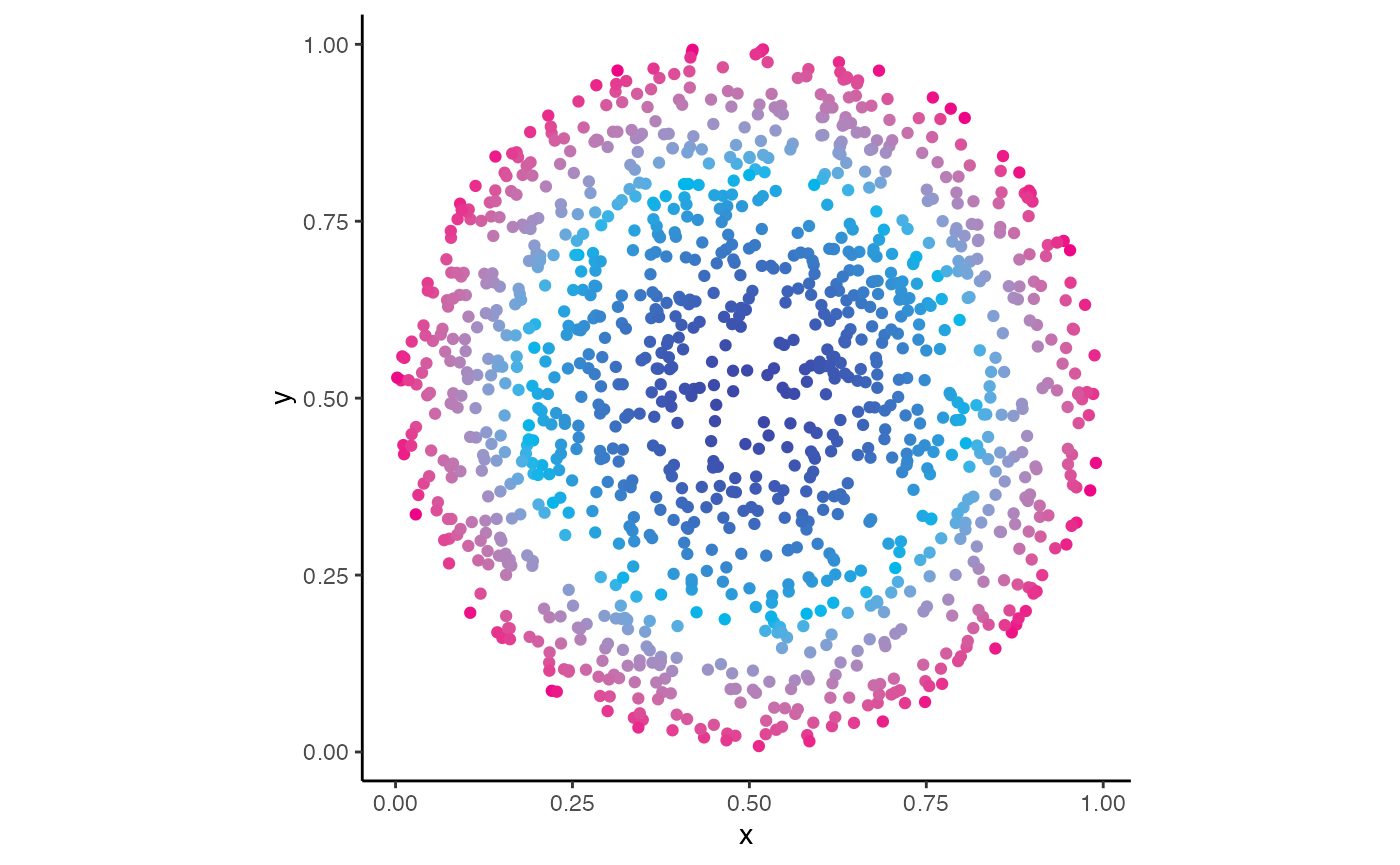
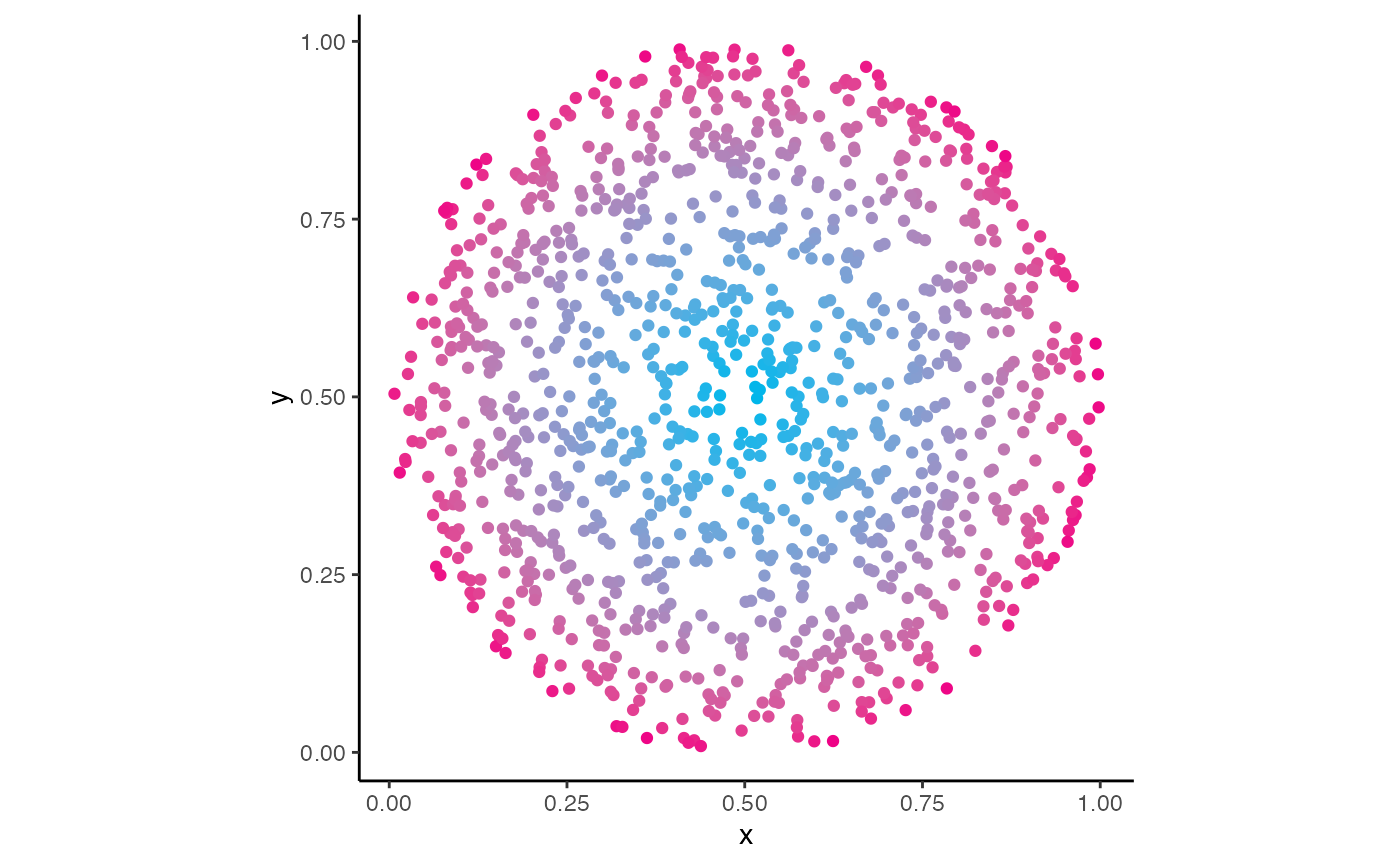
Rebuilding website

diff --git a/docs/articles/HGUTheme.html b/docs/articles/HGUTheme.html
@@ -183,9 +183,8 @@ unit logo colour themes.</p>
 your plot. These functions end in either a <em>c</em> or a <em>d</em>
 indicating whether you are using a continuous or a discrete scale.</p>
 <p>For continuous scales, v0.1.0 of <code>HGUTheme</code> will only
-automatically interpolate between the first and last colour of the logo,
-as shown here with this CRUK logo colour theme missing the light
-blue.</p>
+automatically interpolate between the colours of the logo, as shown here
+with this CRUK logo colour theme.</p>
 <div class="sourceCode" id="cb9"><pre class="downlit sourceCode r">
 <code class="sourceCode R"><span><span class="fu">tibble</span><span class="op">(</span></span>
 <span>  x <span class="op">=</span> <span class="fu"><a href="https://rdrr.io/r/stats/Uniform.html" class="external-link">runif</a></span><span class="op">(</span><span class="fl">1500</span><span class="op">)</span>,</span>
@@ -203,32 +202,12 @@ blue.</p>
 <span>  <span class="fu"><a href="https://ggplot2.tidyverse.org/reference/guides.html" class="external-link">guides</a></span><span class="op">(</span>colour <span class="op">=</span> <span class="st">"none"</span><span class="op">)</span> <span class="op">+</span> <span class="fu"><a href="https://ggplot2.tidyverse.org/reference/coord_fixed.html" class="external-link">coord_equal</a></span><span class="op">(</span><span class="op">)</span> <span class="op">+</span></span>
 <span>  <span class="fu"><a href="../reference/scale_colour_cruk_c.html">scale_colour_cruk_c</a></span><span class="op">(</span><span class="op">)</span></span></code></pre></div>
 <p><img src="HGUTheme_files/figure-html/unnamed-chunk-9-1.png" width="700"></p>
-<p>However, adding a <code>midpoint</code> argument will trigger the
-full theme, this is a bug that will be ironed out in a future
-release.</p>
-<div class="sourceCode" id="cb10"><pre class="downlit sourceCode r">
-<code class="sourceCode R"><span><span class="fu">tibble</span><span class="op">(</span></span>
-<span>  x <span class="op">=</span> <span class="fu"><a href="https://rdrr.io/r/stats/Uniform.html" class="external-link">runif</a></span><span class="op">(</span><span class="fl">1500</span><span class="op">)</span>,</span>
-<span>  y <span class="op">=</span> <span class="fu"><a href="https://rdrr.io/r/stats/Uniform.html" class="external-link">runif</a></span><span class="op">(</span><span class="fl">1500</span><span class="op">)</span></span>
-<span><span class="op">)</span> <span class="op">%&gt;%</span></span>
-<span>  <span class="fu"><a href="https://rdrr.io/r/stats/filter.html" class="external-link">filter</a></span><span class="op">(</span></span>
-<span>    <span class="op">(</span><span class="va">x</span> <span class="op">-</span> <span class="fl">0.5</span><span class="op">)</span><span class="op">^</span><span class="fl">2</span> <span class="op">+</span> <span class="op">(</span><span class="va">y</span> <span class="op">-</span> <span class="fl">0.5</span><span class="op">)</span><span class="op">^</span><span class="fl">2</span> <span class="op">&lt;</span> <span class="fl">0.25</span></span>
-<span>  <span class="op">)</span> <span class="op">%&gt;%</span></span>
-<span>  <span class="fu">mutate</span><span class="op">(</span></span>
-<span>    col <span class="op">=</span> <span class="op">(</span><span class="va">x</span> <span class="op">-</span> <span class="fl">0.5</span><span class="op">)</span><span class="op">^</span><span class="fl">2</span> <span class="op">+</span> <span class="op">(</span><span class="va">y</span> <span class="op">-</span> <span class="fl">0.5</span><span class="op">)</span><span class="op">^</span><span class="fl">2</span></span>
-<span>  <span class="op">)</span> <span class="op">%&gt;%</span></span>
-<span>  <span class="fu"><a href="https://ggplot2.tidyverse.org/reference/ggplot.html" class="external-link">ggplot</a></span><span class="op">(</span><span class="op">)</span> <span class="op">+</span></span>
-<span>  <span class="fu"><a href="https://ggplot2.tidyverse.org/reference/aes.html" class="external-link">aes</a></span><span class="op">(</span>x <span class="op">=</span> <span class="va">x</span>, y <span class="op">=</span> <span class="va">y</span>, colour <span class="op">=</span> <span class="va">col</span><span class="op">)</span> <span class="op">+</span></span>
-<span>  <span class="fu"><a href="https://ggplot2.tidyverse.org/reference/geom_point.html" class="external-link">geom_point</a></span><span class="op">(</span><span class="op">)</span> <span class="op">+</span> <span class="fu"><a href="https://ggplot2.tidyverse.org/reference/ggtheme.html" class="external-link">theme_classic</a></span><span class="op">(</span><span class="op">)</span> <span class="op">+</span></span>
-<span>  <span class="fu"><a href="https://ggplot2.tidyverse.org/reference/guides.html" class="external-link">guides</a></span><span class="op">(</span>colour <span class="op">=</span> <span class="st">"none"</span><span class="op">)</span> <span class="op">+</span> <span class="fu"><a href="https://ggplot2.tidyverse.org/reference/coord_fixed.html" class="external-link">coord_equal</a></span><span class="op">(</span><span class="op">)</span> <span class="op">+</span></span>
-<span>  <span class="fu"><a href="../reference/scale_colour_cruk_c.html">scale_colour_cruk_c</a></span><span class="op">(</span>midpoint <span class="op">=</span> <span class="fl">0.1</span><span class="op">)</span></span></code></pre></div>
-<p><img src="HGUTheme_files/figure-html/unnamed-chunk-10-1.png" width="700"></p>
 <p>It is important to note, that these layers do not have to be used and
 the HEX code functions can be used to supply arguments to pre existing
 <code>ggplot2</code> layers for similar effects, for example if the user
 wanted to recreate the above plot but without the dark blue, this can be
 acheived via</p>
-<div class="sourceCode" id="cb11"><pre class="downlit sourceCode r">
+<div class="sourceCode" id="cb10"><pre class="downlit sourceCode r">
 <code class="sourceCode R"><span><span class="fu">tibble</span><span class="op">(</span></span>
 <span>  x <span class="op">=</span> <span class="fu"><a href="https://rdrr.io/r/stats/Uniform.html" class="external-link">runif</a></span><span class="op">(</span><span class="fl">1500</span><span class="op">)</span>,</span>
 <span>  y <span class="op">=</span> <span class="fu"><a href="https://rdrr.io/r/stats/Uniform.html" class="external-link">runif</a></span><span class="op">(</span><span class="fl">1500</span><span class="op">)</span></span>
@@ -247,7 +226,7 @@ acheived via</p>
 <span>    low <span class="op">=</span> <span class="fu"><a href="../reference/cruk_light_blue.html">cruk_light_blue</a></span><span class="op">(</span><span class="op">)</span>,</span>
 <span>    high <span class="op">=</span> <span class="fu"><a href="../reference/cruk_pink.html">cruk_pink</a></span><span class="op">(</span><span class="op">)</span></span>
 <span>  <span class="op">)</span></span></code></pre></div>
-<p><img src="HGUTheme_files/figure-html/unnamed-chunk-11-1.png" width="700"></p>
+<p><img src="HGUTheme_files/figure-html/unnamed-chunk-10-1.png" width="700"></p>
 </div>
   </main><aside class="col-md-3"><nav id="toc"><h2>On this page</h2>
     </nav></aside>

diff --git a/docs/reference/scale_fill_ukri_c.html b/docs/reference/scale_fill_ukri_c.html
@@ -62,9 +62,7 @@
     <h2 id="ref-usage">Usage<a class="anchor" aria-label="anchor" href="#ref-usage"></a></h2>
     <div class="sourceCode"><pre class="sourceCode r"><code><span><span class="fu">scale_fill_ukri_c</span><span class="op">(</span></span>
 <span>  <span class="va">...</span>,</span>
-<span>  low <span class="op">=</span> <span class="fu"><a href="ukri_dark_blue.html">ukri_dark_blue</a></span><span class="op">(</span><span class="op">)</span>,</span>
-<span>  mid <span class="op">=</span> <span class="fu"><a href="ukri_mid_blue.html">ukri_mid_blue</a></span><span class="op">(</span><span class="op">)</span>,</span>
-<span>  high <span class="op">=</span> <span class="fu"><a href="ukri_light_blue.html">ukri_light_blue</a></span><span class="op">(</span><span class="op">)</span>,</span>
+<span>  colours <span class="op">=</span> <span class="fu"><a href="ukri_blues.html">ukri_blues</a></span><span class="op">(</span><span class="op">)</span>,</span>
 <span>  midpoint <span class="op">=</span> <span class="cn">NULL</span>,</span>
 <span>  space <span class="op">=</span> <span class="st">"Lab"</span>,</span>
 <span>  na.value <span class="op">=</span> <span class="fu"><a href="cruk_grey.html">cruk_grey</a></span><span class="op">(</span><span class="op">)</span>,</span>
@@ -78,18 +76,6 @@
     <dl><dt>...</dt>
 <dd><p>Arguments passed to <code><a href="https://ggplot2.tidyverse.org/reference/scale_gradient.html" class="external-link">ggplot2::scale_colour_gradient</a></code> or
 <code><a href="https://ggplot2.tidyverse.org/reference/scale_gradient.html" class="external-link">ggplot2::scale_colour_gradient2</a></code>.</p></dd>
-
-
-<dt>low</dt>
-<dd><p>Colour for the low end of the gradient.</p></dd>
-
-
-<dt>mid</dt>
-<dd><p>Colour for the midpoint of the gradient.</p></dd>
-
-
-<dt>high</dt>
-<dd><p>Colour for the high end of the gradient.</p></dd>
 
 
 <dt>midpoint</dt>
@@ -111,6 +97,18 @@ scale only used if the midpoint is not equal to <code>NULL</code>, which is the 
 
 <dt>aesthetics</dt>
 <dd><p>The aesthetic to apply this scale to.</p></dd>
+
+
+<dt>low</dt>
+<dd><p>Colour for the low end of the gradient.</p></dd>
+
+
+<dt>mid</dt>
+<dd><p>Colour for the midpoint of the gradient.</p></dd>
+
+
+<dt>high</dt>
+<dd><p>Colour for the high end of the gradient.</p></dd>
 
 </dl></div>
     <div class="section level2">
@@ -147,18 +145,6 @@ scale only used if the midpoint is not equal to <code>NULL</code>, which is the 
 <span class="r-in"><span>  <span class="fu"><a href="https://ggplot2.tidyverse.org/reference/guides.html" class="external-link">guides</a></span><span class="op">(</span>fill <span class="op">=</span> <span class="st">"none"</span><span class="op">)</span> <span class="op">+</span> <span class="fu"><a href="https://ggplot2.tidyverse.org/reference/coord_fixed.html" class="external-link">coord_equal</a></span><span class="op">(</span><span class="op">)</span> <span class="op">+</span></span></span>
 <span class="r-in"><span>  <span class="fu">scale_fill_ukri_c</span><span class="op">(</span><span class="op">)</span></span></span>
 <span class="r-plt img"><img src="scale_fill_ukri_c-1.png" alt="" width="700" height="433"></span>
-<span class="r-in"><span></span></span>
-<span class="r-in"><span><span class="fu"><a href="https://ggplot2.tidyverse.org/reference/ggplot.html" class="external-link">ggplot</a></span><span class="op">(</span></span></span>
-<span class="r-in"><span>  <span class="fu"><a href="https://rdrr.io/r/base/data.frame.html" class="external-link">data.frame</a></span><span class="op">(</span></span></span>
-<span class="r-in"><span>    x <span class="op">=</span> <span class="fu"><a href="https://rdrr.io/r/stats/Normal.html" class="external-link">rnorm</a></span><span class="op">(</span><span class="fl">10000</span><span class="op">)</span>,</span></span>
-<span class="r-in"><span>    y <span class="op">=</span> <span class="fu"><a href="https://rdrr.io/r/stats/Normal.html" class="external-link">rnorm</a></span><span class="op">(</span><span class="fl">10000</span><span class="op">)</span></span></span>
-<span class="r-in"><span>  <span class="op">)</span></span></span>
-<span class="r-in"><span><span class="op">)</span> <span class="op">+</span></span></span>
-<span class="r-in"><span>  <span class="fu"><a href="https://ggplot2.tidyverse.org/reference/aes.html" class="external-link">aes</a></span><span class="op">(</span>x <span class="op">=</span> <span class="va">x</span>, y <span class="op">=</span> <span class="va">y</span><span class="op">)</span> <span class="op">+</span></span></span>
-<span class="r-in"><span>  <span class="fu"><a href="https://ggplot2.tidyverse.org/reference/geom_hex.html" class="external-link">geom_hex</a></span><span class="op">(</span><span class="op">)</span> <span class="op">+</span> <span class="fu"><a href="https://ggplot2.tidyverse.org/reference/ggtheme.html" class="external-link">theme_classic</a></span><span class="op">(</span><span class="op">)</span> <span class="op">+</span></span></span>
-<span class="r-in"><span>  <span class="fu"><a href="https://ggplot2.tidyverse.org/reference/guides.html" class="external-link">guides</a></span><span class="op">(</span>fill <span class="op">=</span> <span class="st">"none"</span><span class="op">)</span> <span class="op">+</span> <span class="fu"><a href="https://ggplot2.tidyverse.org/reference/coord_fixed.html" class="external-link">coord_equal</a></span><span class="op">(</span><span class="op">)</span> <span class="op">+</span></span></span>
-<span class="r-in"><span>  <span class="fu">scale_fill_ukri_c</span><span class="op">(</span>midpoint <span class="op">=</span> <span class="fl">40</span><span class="op">)</span></span></span>
-<span class="r-plt img"><img src="scale_fill_ukri_c-2.png" alt="" width="700" height="433"></span>
 <span class="r-in"><span></span></span>
 </code></pre></div>
     </div>

diff --git a/docs/reference/scale_fill_cruk_c.html b/docs/reference/scale_fill_cruk_c.html
@@ -62,9 +62,7 @@
     <h2 id="ref-usage">Usage<a class="anchor" aria-label="anchor" href="#ref-usage"></a></h2>
     <div class="sourceCode"><pre class="sourceCode r"><code><span><span class="fu">scale_fill_cruk_c</span><span class="op">(</span></span>
 <span>  <span class="va">...</span>,</span>
-<span>  low <span class="op">=</span> <span class="fu"><a href="cruk_dark_blue.html">cruk_dark_blue</a></span><span class="op">(</span><span class="op">)</span>,</span>
-<span>  mid <span class="op">=</span> <span class="fu"><a href="cruk_light_blue.html">cruk_light_blue</a></span><span class="op">(</span><span class="op">)</span>,</span>
-<span>  high <span class="op">=</span> <span class="fu"><a href="cruk_pink.html">cruk_pink</a></span><span class="op">(</span><span class="op">)</span>,</span>
+<span>  colours <span class="op">=</span> <span class="fu"><a href="cruk_colours.html">cruk_colours</a></span><span class="op">(</span><span class="op">)</span>,</span>
 <span>  midpoint <span class="op">=</span> <span class="cn">NULL</span>,</span>
 <span>  space <span class="op">=</span> <span class="st">"Lab"</span>,</span>
 <span>  na.value <span class="op">=</span> <span class="fu"><a href="cruk_grey.html">cruk_grey</a></span><span class="op">(</span><span class="op">)</span>,</span>
@@ -78,18 +76,6 @@
     <dl><dt>...</dt>
 <dd><p>Arguments passed to <code><a href="https://ggplot2.tidyverse.org/reference/scale_gradient.html" class="external-link">ggplot2::scale_colour_gradient</a></code> or
 <code><a href="https://ggplot2.tidyverse.org/reference/scale_gradient.html" class="external-link">ggplot2::scale_colour_gradient2</a></code>.</p></dd>
-
-
-<dt>low</dt>
-<dd><p>Colour for the low end of the gradient.</p></dd>
-
-
-<dt>mid</dt>
-<dd><p>Colour for the midpoint of the gradient.</p></dd>
-
-
-<dt>high</dt>
-<dd><p>Colour for the high end of the gradient.</p></dd>
 
 
 <dt>midpoint</dt>
@@ -111,6 +97,18 @@ scale only used if the midpoint is not equal to <code>NULL</code>, which is the 
 
 <dt>aesthetics</dt>
 <dd><p>The aesthetic to apply this scale to.</p></dd>
+
+
+<dt>low</dt>
+<dd><p>Colour for the low end of the gradient.</p></dd>
+
+
+<dt>mid</dt>
+<dd><p>Colour for the midpoint of the gradient.</p></dd>
+
+
+<dt>high</dt>
+<dd><p>Colour for the high end of the gradient.</p></dd>
 
 </dl></div>
     <div class="section level2">
@@ -147,18 +145,6 @@ scale only used if the midpoint is not equal to <code>NULL</code>, which is the 
 <span class="r-in"><span>  <span class="fu"><a href="https://ggplot2.tidyverse.org/reference/guides.html" class="external-link">guides</a></span><span class="op">(</span>fill <span class="op">=</span> <span class="st">"none"</span><span class="op">)</span> <span class="op">+</span> <span class="fu"><a href="https://ggplot2.tidyverse.org/reference/coord_fixed.html" class="external-link">coord_equal</a></span><span class="op">(</span><span class="op">)</span> <span class="op">+</span></span></span>
 <span class="r-in"><span>  <span class="fu">scale_fill_cruk_c</span><span class="op">(</span><span class="op">)</span></span></span>
 <span class="r-plt img"><img src="scale_fill_cruk_c-1.png" alt="" width="700" height="433"></span>
-<span class="r-in"><span></span></span>
-<span class="r-in"><span><span class="fu"><a href="https://ggplot2.tidyverse.org/reference/ggplot.html" class="external-link">ggplot</a></span><span class="op">(</span></span></span>
-<span class="r-in"><span>  <span class="fu"><a href="https://rdrr.io/r/base/data.frame.html" class="external-link">data.frame</a></span><span class="op">(</span></span></span>
-<span class="r-in"><span>    x <span class="op">=</span> <span class="fu"><a href="https://rdrr.io/r/stats/Normal.html" class="external-link">rnorm</a></span><span class="op">(</span><span class="fl">10000</span><span class="op">)</span>,</span></span>
-<span class="r-in"><span>    y <span class="op">=</span> <span class="fu"><a href="https://rdrr.io/r/stats/Normal.html" class="external-link">rnorm</a></span><span class="op">(</span><span class="fl">10000</span><span class="op">)</span></span></span>
-<span class="r-in"><span>  <span class="op">)</span></span></span>
-<span class="r-in"><span><span class="op">)</span> <span class="op">+</span></span></span>
-<span class="r-in"><span>  <span class="fu"><a href="https://ggplot2.tidyverse.org/reference/aes.html" class="external-link">aes</a></span><span class="op">(</span>x <span class="op">=</span> <span class="va">x</span>, y <span class="op">=</span> <span class="va">y</span><span class="op">)</span> <span class="op">+</span></span></span>
-<span class="r-in"><span>  <span class="fu"><a href="https://ggplot2.tidyverse.org/reference/geom_hex.html" class="external-link">geom_hex</a></span><span class="op">(</span><span class="op">)</span> <span class="op">+</span> <span class="fu"><a href="https://ggplot2.tidyverse.org/reference/ggtheme.html" class="external-link">theme_classic</a></span><span class="op">(</span><span class="op">)</span> <span class="op">+</span></span></span>
-<span class="r-in"><span>  <span class="fu"><a href="https://ggplot2.tidyverse.org/reference/guides.html" class="external-link">guides</a></span><span class="op">(</span>fill <span class="op">=</span> <span class="st">"none"</span><span class="op">)</span> <span class="op">+</span> <span class="fu"><a href="https://ggplot2.tidyverse.org/reference/coord_fixed.html" class="external-link">coord_equal</a></span><span class="op">(</span><span class="op">)</span> <span class="op">+</span></span></span>
-<span class="r-in"><span>  <span class="fu">scale_fill_cruk_c</span><span class="op">(</span>midpoint <span class="op">=</span> <span class="fl">40</span><span class="op">)</span></span></span>
-<span class="r-plt img"><img src="scale_fill_cruk_c-2.png" alt="" width="700" height="433"></span>
 <span class="r-in"><span></span></span>
 </code></pre></div>
     </div>

diff --git a/docs/reference/scale_colour_ukri_c.html b/docs/reference/scale_colour_ukri_c.html
@@ -65,9 +65,7 @@ to interpolate values from the blues used in the UKRI logo.</p>
     <h2 id="ref-usage">Usage<a class="anchor" aria-label="anchor" href="#ref-usage"></a></h2>
     <div class="sourceCode"><pre class="sourceCode r"><code><span><span class="fu">scale_colour_ukri_c</span><span class="op">(</span></span>
 <span>  <span class="va">...</span>,</span>
-<span>  low <span class="op">=</span> <span class="fu"><a href="ukri_dark_blue.html">ukri_dark_blue</a></span><span class="op">(</span><span class="op">)</span>,</span>
-<span>  mid <span class="op">=</span> <span class="fu"><a href="ukri_mid_blue.html">ukri_mid_blue</a></span><span class="op">(</span><span class="op">)</span>,</span>
-<span>  high <span class="op">=</span> <span class="fu"><a href="ukri_light_blue.html">ukri_light_blue</a></span><span class="op">(</span><span class="op">)</span>,</span>
+<span>  colours <span class="op">=</span> <span class="fu"><a href="ukri_blues.html">ukri_blues</a></span><span class="op">(</span><span class="op">)</span>,</span>
 <span>  midpoint <span class="op">=</span> <span class="cn">NULL</span>,</span>
 <span>  space <span class="op">=</span> <span class="st">"Lab"</span>,</span>
 <span>  na.value <span class="op">=</span> <span class="fu"><a href="cruk_grey.html">cruk_grey</a></span><span class="op">(</span><span class="op">)</span>,</span>
@@ -81,18 +79,6 @@ to interpolate values from the blues used in the UKRI logo.</p>
     <dl><dt>...</dt>
 <dd><p>Arguments passed to <code><a href="https://ggplot2.tidyverse.org/reference/scale_gradient.html" class="external-link">ggplot2::scale_colour_gradient</a></code> or
 <code><a href="https://ggplot2.tidyverse.org/reference/scale_gradient.html" class="external-link">ggplot2::scale_colour_gradient2</a></code>.</p></dd>
-
-
-<dt>low</dt>
-<dd><p>Colour for the low end of the gradient.</p></dd>
-
-
-<dt>mid</dt>
-<dd><p>Colour for the midpoit of the gradient.</p></dd>
-
-
-<dt>high</dt>
-<dd><p>Colour for the high end of the gradient.</p></dd>
 
 
 <dt>midpoint</dt>
@@ -114,6 +100,18 @@ scale only used if the midpoint is not equal to <code>NULL</code>, which is the 
 
 <dt>aesthetics</dt>
 <dd><p>The aesthetic to apply this scale to.</p></dd>
+
+
+<dt>low</dt>
+<dd><p>Colour for the low end of the gradient.</p></dd>
+
+
+<dt>mid</dt>
+<dd><p>Colour for the midpoit of the gradient.</p></dd>
+
+
+<dt>high</dt>
+<dd><p>Colour for the high end of the gradient.</p></dd>
 
 </dl></div>
     <div class="section level2">
@@ -151,19 +149,6 @@ scale only used if the midpoint is not equal to <code>NULL</code>, which is the 
 <span class="r-in"><span>  <span class="fu"><a href="https://ggplot2.tidyverse.org/reference/coord_fixed.html" class="external-link">coord_equal</a></span><span class="op">(</span><span class="op">)</span> <span class="op">+</span></span></span>
 <span class="r-in"><span>  <span class="fu">scale_colour_ukri_c</span><span class="op">(</span><span class="op">)</span></span></span>
 <span class="r-plt img"><img src="scale_colour_ukri_c-1.png" alt="" width="700" height="433"></span>
-<span class="r-in"><span></span></span>
-<span class="r-in"><span>  <span class="fu"><a href="https://ggplot2.tidyverse.org/reference/ggplot.html" class="external-link">ggplot</a></span><span class="op">(</span></span></span>
-<span class="r-in"><span>  <span class="fu"><a href="https://rdrr.io/r/base/data.frame.html" class="external-link">data.frame</a></span><span class="op">(</span></span></span>
-<span class="r-in"><span>    x <span class="op">=</span> <span class="fu"><a href="https://rdrr.io/r/stats/Uniform.html" class="external-link">runif</a></span><span class="op">(</span><span class="fl">1500</span><span class="op">)</span>,</span></span>
-<span class="r-in"><span>    y <span class="op">=</span> <span class="fu"><a href="https://rdrr.io/r/stats/Uniform.html" class="external-link">runif</a></span><span class="op">(</span><span class="fl">1500</span><span class="op">)</span></span></span>
-<span class="r-in"><span>  <span class="op">)</span></span></span>
-<span class="r-in"><span><span class="op">)</span> <span class="op">+</span></span></span>
-<span class="r-in"><span>  <span class="fu"><a href="https://ggplot2.tidyverse.org/reference/aes.html" class="external-link">aes</a></span><span class="op">(</span>x <span class="op">=</span> <span class="va">x</span>, y <span class="op">=</span> <span class="va">y</span>, colour <span class="op">=</span> <span class="va">x</span><span class="op">)</span> <span class="op">+</span></span></span>
-<span class="r-in"><span>  <span class="fu"><a href="https://ggplot2.tidyverse.org/reference/geom_point.html" class="external-link">geom_point</a></span><span class="op">(</span><span class="op">)</span> <span class="op">+</span> <span class="fu"><a href="https://ggplot2.tidyverse.org/reference/ggtheme.html" class="external-link">theme_classic</a></span><span class="op">(</span><span class="op">)</span> <span class="op">+</span></span></span>
-<span class="r-in"><span>  <span class="fu"><a href="https://ggplot2.tidyverse.org/reference/guides.html" class="external-link">guides</a></span><span class="op">(</span>colour <span class="op">=</span> <span class="st">"none"</span><span class="op">)</span> <span class="op">+</span></span></span>
-<span class="r-in"><span>  <span class="fu"><a href="https://ggplot2.tidyverse.org/reference/coord_fixed.html" class="external-link">coord_equal</a></span><span class="op">(</span><span class="op">)</span> <span class="op">+</span></span></span>
-<span class="r-in"><span>  <span class="fu">scale_colour_ukri_c</span><span class="op">(</span>midpoint <span class="op">=</span> <span class="fl">0.5</span><span class="op">)</span></span></span>
-<span class="r-plt img"><img src="scale_colour_ukri_c-2.png" alt="" width="700" height="433"></span>
 <span class="r-in"><span></span></span>
 </code></pre></div>
     </div>

diff --git a/docs/reference/scale_colour_cruk_c.html b/docs/reference/scale_colour_cruk_c.html
@@ -65,9 +65,7 @@ to interpolate values from the blues used in the CRUK logo.</p>
     <h2 id="ref-usage">Usage<a class="anchor" aria-label="anchor" href="#ref-usage"></a></h2>
     <div class="sourceCode"><pre class="sourceCode r"><code><span><span class="fu">scale_colour_cruk_c</span><span class="op">(</span></span>
 <span>  <span class="va">...</span>,</span>
-<span>  low <span class="op">=</span> <span class="fu"><a href="cruk_dark_blue.html">cruk_dark_blue</a></span><span class="op">(</span><span class="op">)</span>,</span>
-<span>  mid <span class="op">=</span> <span class="fu"><a href="cruk_light_blue.html">cruk_light_blue</a></span><span class="op">(</span><span class="op">)</span>,</span>
-<span>  high <span class="op">=</span> <span class="fu"><a href="cruk_pink.html">cruk_pink</a></span><span class="op">(</span><span class="op">)</span>,</span>
+<span>  colours <span class="op">=</span> <span class="fu"><a href="cruk_colours.html">cruk_colours</a></span><span class="op">(</span><span class="op">)</span>,</span>
 <span>  midpoint <span class="op">=</span> <span class="cn">NULL</span>,</span>
 <span>  space <span class="op">=</span> <span class="st">"Lab"</span>,</span>
 <span>  na.value <span class="op">=</span> <span class="fu"><a href="cruk_grey.html">cruk_grey</a></span><span class="op">(</span><span class="op">)</span>,</span>
@@ -81,18 +79,6 @@ to interpolate values from the blues used in the CRUK logo.</p>
     <dl><dt>...</dt>
 <dd><p>Arguments passed to <code><a href="https://ggplot2.tidyverse.org/reference/scale_gradient.html" class="external-link">ggplot2::scale_colour_gradient</a></code> or
 <code><a href="https://ggplot2.tidyverse.org/reference/scale_gradient.html" class="external-link">ggplot2::scale_colour_gradient2</a></code>.</p></dd>
-
-
-<dt>low</dt>
-<dd><p>Colour for the low end of the gradient.</p></dd>
-
-
-<dt>mid</dt>
-<dd><p>Colour for the midpoit of the gradient.</p></dd>
-
-
-<dt>high</dt>
-<dd><p>Colour for the high end of the gradient.</p></dd>
 
 
 <dt>midpoint</dt>
@@ -114,6 +100,18 @@ scale only used if the midpoint is not equal to <code>NULL</code>, which is the 
 
 <dt>aesthetics</dt>
 <dd><p>The aesthetic to apply this scale to.</p></dd>
+
+
+<dt>low</dt>
+<dd><p>Colour for the low end of the gradient.</p></dd>
+
+
+<dt>mid</dt>
+<dd><p>Colour for the midpoit of the gradient.</p></dd>
+
+
+<dt>high</dt>
+<dd><p>Colour for the high end of the gradient.</p></dd>
 
 </dl></div>
     <div class="section level2">
@@ -151,19 +149,6 @@ scale only used if the midpoint is not equal to <code>NULL</code>, which is the 
 <span class="r-in"><span>  <span class="fu"><a href="https://ggplot2.tidyverse.org/reference/coord_fixed.html" class="external-link">coord_equal</a></span><span class="op">(</span><span class="op">)</span> <span class="op">+</span></span></span>
 <span class="r-in"><span>  <span class="fu">scale_colour_cruk_c</span><span class="op">(</span><span class="op">)</span></span></span>
 <span class="r-plt img"><img src="scale_colour_cruk_c-1.png" alt="" width="700" height="433"></span>
-<span class="r-in"><span></span></span>
-<span class="r-in"><span><span class="fu"><a href="https://ggplot2.tidyverse.org/reference/ggplot.html" class="external-link">ggplot</a></span><span class="op">(</span></span></span>
-<span class="r-in"><span>  <span class="fu"><a href="https://rdrr.io/r/base/data.frame.html" class="external-link">data.frame</a></span><span class="op">(</span></span></span>
-<span class="r-in"><span>    x <span class="op">=</span> <span class="fu"><a href="https://rdrr.io/r/stats/Uniform.html" class="external-link">runif</a></span><span class="op">(</span><span class="fl">1500</span><span class="op">)</span>,</span></span>
-<span class="r-in"><span>    y <span class="op">=</span> <span class="fu"><a href="https://rdrr.io/r/stats/Uniform.html" class="external-link">runif</a></span><span class="op">(</span><span class="fl">1500</span><span class="op">)</span></span></span>
-<span class="r-in"><span>  <span class="op">)</span></span></span>
-<span class="r-in"><span><span class="op">)</span> <span class="op">+</span></span></span>
-<span class="r-in"><span>  <span class="fu"><a href="https://ggplot2.tidyverse.org/reference/aes.html" class="external-link">aes</a></span><span class="op">(</span>x <span class="op">=</span> <span class="va">x</span>, y <span class="op">=</span> <span class="va">y</span>, colour <span class="op">=</span> <span class="va">x</span><span class="op">)</span> <span class="op">+</span></span></span>
-<span class="r-in"><span>  <span class="fu"><a href="https://ggplot2.tidyverse.org/reference/geom_point.html" class="external-link">geom_point</a></span><span class="op">(</span><span class="op">)</span> <span class="op">+</span> <span class="fu"><a href="https://ggplot2.tidyverse.org/reference/ggtheme.html" class="external-link">theme_classic</a></span><span class="op">(</span><span class="op">)</span> <span class="op">+</span></span></span>
-<span class="r-in"><span>  <span class="fu"><a href="https://ggplot2.tidyverse.org/reference/guides.html" class="external-link">guides</a></span><span class="op">(</span>colour <span class="op">=</span> <span class="st">"none"</span><span class="op">)</span> <span class="op">+</span></span></span>
-<span class="r-in"><span>  <span class="fu"><a href="https://ggplot2.tidyverse.org/reference/coord_fixed.html" class="external-link">coord_equal</a></span><span class="op">(</span><span class="op">)</span> <span class="op">+</span></span></span>
-<span class="r-in"><span>  <span class="fu">scale_colour_cruk_c</span><span class="op">(</span>midpoint <span class="op">=</span> <span class="fl">0.5</span><span class="op">)</span></span></span>
-<span class="r-plt img"><img src="scale_colour_cruk_c-2.png" alt="" width="700" height="433"></span>
 <span class="r-in"><span></span></span>
 </code></pre></div>
     </div>

diff --git a/docs/news/index.html b/docs/news/index.html
@@ -54,6 +54,10 @@
     </div>
 
     <div class="section level2">
+<h2 class="pkg-version" data-toc-text="0.1.1" id="hgutheme-011">HGUTheme 0.1.1<a class="anchor" aria-label="anchor" href="#hgutheme-011"></a></h2>
+<ul><li>Fixing <code>ggplot2</code> continuous layers</li>
+</ul></div>
+    <div class="section level2">
 <h2 class="pkg-version" data-toc-text="0.1.0" id="hgutheme-010">HGUTheme 0.1.0<a class="anchor" aria-label="anchor" href="#hgutheme-010"></a></h2>
 <ul><li>Redefining all the colour names</li>
 <li>Adding CRUK logo palette</li>

diff --git a/NEWS.md b/NEWS.md
@@ -1,3 +1,7 @@
+# HGUTheme 0.1.1
+
+* Fixing `ggplot2` continuous layers
+
 # HGUTheme 0.1.0
 
 * Redefining all the colour names
